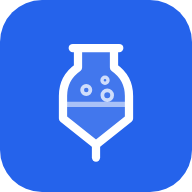
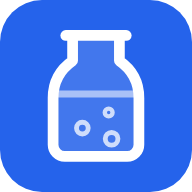
feat: novo ícone em formato de galão e simulação automática ligada só pelo menu do lote
- feat: ícone do app (Android, iPhone e aba do navegador) com o corpo reto até embaixo, como um galão, e ilustração igual na tela inicial
- refactor: remove o interruptor "Simulação automática" de Ajustes; ela liga ao tocar em "Simular" no menu do lote e para sozinha quando a fermentação termina, é encerrada ou o Modo dev é desligado
- docs: README atualizado

Changed region(s): [[0.2188, 0.1562, 0.7812, 0.8438]]

diff --git a/app/src/App.test.jsx b/app/src/App.test.jsx
@@ -433,7 +433,7 @@ describe("App", () => {
       expect(screen.queryByLabelText("Circuito simulado")).toBeNull()
       tab("Ajustes")
       expect(screen.getByRole("switch", { name: "Modo dev" }).getAttribute("aria-checked")).toBe("true")
-      expect(screen.getByRole("switch", { name: "Simulação automática" })).toBeTruthy()
+      expect(screen.queryByRole("switch", { name: "Simulação automática" })).toBeNull() // não existe mais: o Simular cuida disso
     })
 
     it("no computador, o Modo dev liga e desliga o circuito pelo interruptor em Ajustes", async () => {
@@ -539,7 +539,6 @@ describe("App", () => {
       tab("Ajustes")
       fireEvent.click(screen.getByRole("switch", { name: "Modo dev" })) // desliga
       await advance(300)
-      expect(screen.queryByRole("switch", { name: "Simulação automática" })).toBeNull()
       tab("Lotes")
       menu("Exemplo · Pilsen")
       expect(screen.queryByText("Simular")).toBeNull()
@@ -580,18 +579,22 @@ describe("App", () => {
       expect(screen.getByText("Simular").closest("button").disabled).toBe(true)
     })
 
-    it("a Simulação automática desliga pelos Ajustes", async () => {
+    it("a simulação automática para sozinha quando a fermentação é encerrada", async () => {
       render(<App />)
       await advance(2000)
       tab("Lotes")
       menu("Exemplo · American IPA")
       click("Simular")
-      await advance(500)
+      await advance(2500)
+      const auto = () => JSON.parse(localStorage.getItem("fermentador.sim")).auto
+      expect(auto()).toBe(true)
+      click("Pausar")
+      click("Encerrar")
+      click("Encerrar fermentação")
+      await advance(3000)
+      expect(auto()).toBe(false) // câmara e ambiente voltam a ficar como estão
       tab("Ajustes")
-      const sw = screen.getByRole("switch", { name: "Simulação automática" })
-      expect(sw.getAttribute("aria-checked")).toBe("true")
-      fireEvent.click(sw)
-      expect(JSON.parse(localStorage.getItem("fermentador.sim")).auto).toBe(false)
+      expect(screen.queryByText("Simulação automática")).toBeNull()
     })
 
     it("no computador, mexer num slider do circuito assume o controle (desliga o automático)", async () => {

diff --git a/app/src/pages/SettingsPage.jsx b/app/src/pages/SettingsPage.jsx
@@ -1,7 +1,5 @@
 import { Card, Segmented, Switch } from "../ui/primitives.jsx"
 import { fmtDelta } from "../domain/units.js"
-import { setSimControl } from "../transport/simControl.js"
-import { useSimControl } from "../ui/useSimControl.js"
 import { connectionInfo } from "../ui/connection.js"
 
 export default function SettingsPage({ f }) {
@@ -9,7 +7,6 @@ export default function SettingsPage({ f }) {
   const dev = settings.mode === "dev"
   const running = f.run !== null
   const conn = connectionInfo(f)
-  const sim = useSimControl()
   const connected = status === "connected"
   const canConnect = dev || f.serialSupported
   const tone = { ok: "green", warn: "amber", off: "" }[conn.tone]
@@ -70,16 +67,10 @@ export default function SettingsPage({ f }) {
       </Card>
 
       <Card className="flush">
-        <div className="row" style={{ padding: "14px 16px", borderBottom: dev ? "1px solid #F1F2F4" : "none" }}>
+        <div className="row" style={{ padding: "14px 16px" }}>
           <p style={{ fontWeight: 600 }}>Modo dev</p>
           <Switch label="Modo dev" checked={dev} onChange={() => f.setMode(dev ? "live" : "dev")} disabled={running} />
         </div>
-        {dev && (
-          <div className="row" style={{ padding: "14px 16px" }}>
-            <p style={{ fontWeight: 600 }}>Simulação automática</p>
-            <Switch label="Simulação automática" checked={sim.auto} onChange={() => setSimControl({ auto: !sim.auto })} />
-          </div>
-        )}
       </Card>
     </>
   )

diff --git a/app/src/transport/simControl.test.js b/app/src/transport/simControl.test.js
@@ -122,3 +122,42 @@ describe("simulação automática", () => {
     vi.useRealTimers()
   })
 })
+
+describe("o automático dura só a fermentação simulada", () => {
+  it("desliga sozinho quando a placa volta à espera (fermentação terminou ou foi encerrada)", async () => {
+    vi.useFakeTimers()
+    setSimControl({ chamber: 10, ambient: 26, auto: true })
+    const t = new SimulatorTransport()
+    await t.connect()
+    await t.send("RUN 1")
+    await t.send("SP 20")
+    await vi.advanceTimersByTimeAsync(5000)
+    expect(getSimControl().auto).toBe(true) // rodando
+    await t.send("RUN 0") // encerrou
+    await vi.advanceTimersByTimeAsync(2000)
+    expect(getSimControl().auto).toBe(false)
+    await t.disconnect()
+    vi.useRealTimers()
+  })
+
+  it("ligar o automático antes da placa receber RUN 1 não o desliga", async () => {
+    vi.useFakeTimers()
+    setSimControl({ auto: true })
+    const t = new SimulatorTransport()
+    await t.connect()
+    await vi.advanceTimersByTimeAsync(3000) // ainda em espera, como no instante do "Simular"
+    expect(getSimControl().auto).toBe(true)
+    await t.disconnect()
+    vi.useRealTimers()
+  })
+
+  it("desconectar (ou sair do Modo dev) desliga o automático", async () => {
+    vi.useFakeTimers()
+    setSimControl({ auto: true })
+    const t = new SimulatorTransport()
+    await t.connect()
+    await t.disconnect()
+    expect(getSimControl().auto).toBe(false)
+    vi.useRealTimers()
+  })
+})

diff --git a/app/src/pages/OverviewPage.jsx b/app/src/pages/OverviewPage.jsx
@@ -190,12 +190,11 @@ export default function OverviewPage({ f, go, askConfirm }) {
         <Card className="idle-card">
           <div className="idle-art" aria-hidden="true">
             <svg width="64" height="64" viewBox="0 0 64 64" fill="none" stroke="#2563EB" strokeWidth="2.4" strokeLinecap="round" strokeLinejoin="round">
-              <path d="M20 10h24M22 10v10c-4 3-6 7-6 12v10l16 12 16-12V32c0-5-2-9-6-12V10" fill="#fff" />
-              <path d="M16 36h32" stroke="#93C5FD" />
-              <circle cx="27" cy="30" r="2.4" stroke="#93C5FD" />
-              <circle cx="36" cy="26" r="1.8" stroke="#93C5FD" />
-              <circle cx="38" cy="32" r="2.8" stroke="#93C5FD" />
-              <path d="M32 54v4" />
+              <path d="M20 10h24M22 10v10c-4 3-6 7-6 12v16a6 6 0 0 0 6 6h20a6 6 0 0 0 6-6V32c0-5-2-9-6-12V10" fill="#fff" />
+              <path d="M16 32h32" stroke="#93C5FD" />
+              <circle cx="27" cy="40" r="2.4" stroke="#93C5FD" />
+              <circle cx="36" cy="37" r="1.8" stroke="#93C5FD" />
+              <circle cx="38" cy="46" r="2.8" stroke="#93C5FD" />
             </svg>
           </div>
           <p className="h2" style={{ fontSize: 20 }}>Pronto para fermentar</p>

diff --git a/app/src/transport/simulator.js b/app/src/transport/simulator.js
@@ -21,6 +21,7 @@ export class SimulatorTransport {
   }
 
   autoTicks = 0
+  wasEnabled = false // a placa já recebeu RUN 1 nesta simulação?
 
   /**
    * Lê o potenciômetro e o NTC do circuito simulado.
@@ -29,6 +30,12 @@ export class SimulatorTransport {
    */
   readCircuit() {
     let c = getSimControl()
+    // O automático vale só enquanto a fermentação simulada roda: ao terminar ou encerrar (placa volta à espera), desliga.
+    if (c.auto && this.wasEnabled && !this.sim.enabled) {
+      setSimControl({ auto: false })
+      c = getSimControl()
+    }
+    this.wasEnabled = this.sim.enabled
     if (c.auto) {
       this.autoTicks += 1
       const target = this.sim.enabled ? this.sim.cfg.setPoint : c.ambient // em espera, a câmara vai para o ambiente
@@ -63,6 +70,7 @@ export class SimulatorTransport {
   async disconnect() {
     if (this.timer) clearInterval(this.timer)
     this.timer = null
+    setSimControl({ auto: false }) // sai do Modo dev ou desconecta: a simulação automática para
     this.statusCbs.forEach((cb) => cb("disconnected"))
   }
 

diff --git a/README.md b/README.md
@@ -30,7 +30,7 @@ Feche o Monitor Serial da Arduino IDE antes de conectar: só um programa usa a p
 
 No computador o app aparece dentro de uma moldura de celular; num celular ocupa a tela toda.
 
-**Modo dev (sem o circuito).** No computador, em **Ajustes > Modo dev**, o app troca a placa por uma simulada e mostra o circuito ao lado do celular: o **potenciômetro** define a **temperatura interna** e o **NTC** o ambiente (fixo, definido por quem usa). A **mola** esquenta (laranja/vermelha) quando a resistência liga e a **ventoinha** gira quando o resfriador liga. Funciona em qualquer navegador (não precisa de Web Serial). No celular (sem o painel do circuito), o menu de três pontos do lote ganha **Simular**: inicia a fermentação e a simulação move sozinha a temperatura interna e a do ambiente; dá para desligar em **Ajustes > Simulação automática**.
+**Modo dev (sem o circuito).** No computador, em **Ajustes > Modo dev**, o app troca a placa por uma simulada e mostra o circuito ao lado do celular: o **potenciômetro** define a **temperatura interna** e o **NTC** o ambiente (fixo, definido por quem usa). A **mola** esquenta (laranja/vermelha) quando a resistência liga e a **ventoinha** gira quando o resfriador liga. Funciona em qualquer navegador (não precisa de Web Serial). No celular (sem o painel do circuito), o menu de três pontos do lote ganha **Simular**: inicia a fermentação e a simulação move sozinha a temperatura interna e a do ambiente; ela para sozinha quando a fermentação termina ou é encerrada.
 
 **Importante:** quem avança as etapas é o app. Ele precisa ficar aberto e conectado; se a página for fechada, ao reabrir ele recalcula em que etapa o lote deveria estar (o tempo vem do relógio). Com o ESP, essa lógica pode ir para a própria placa.
 
